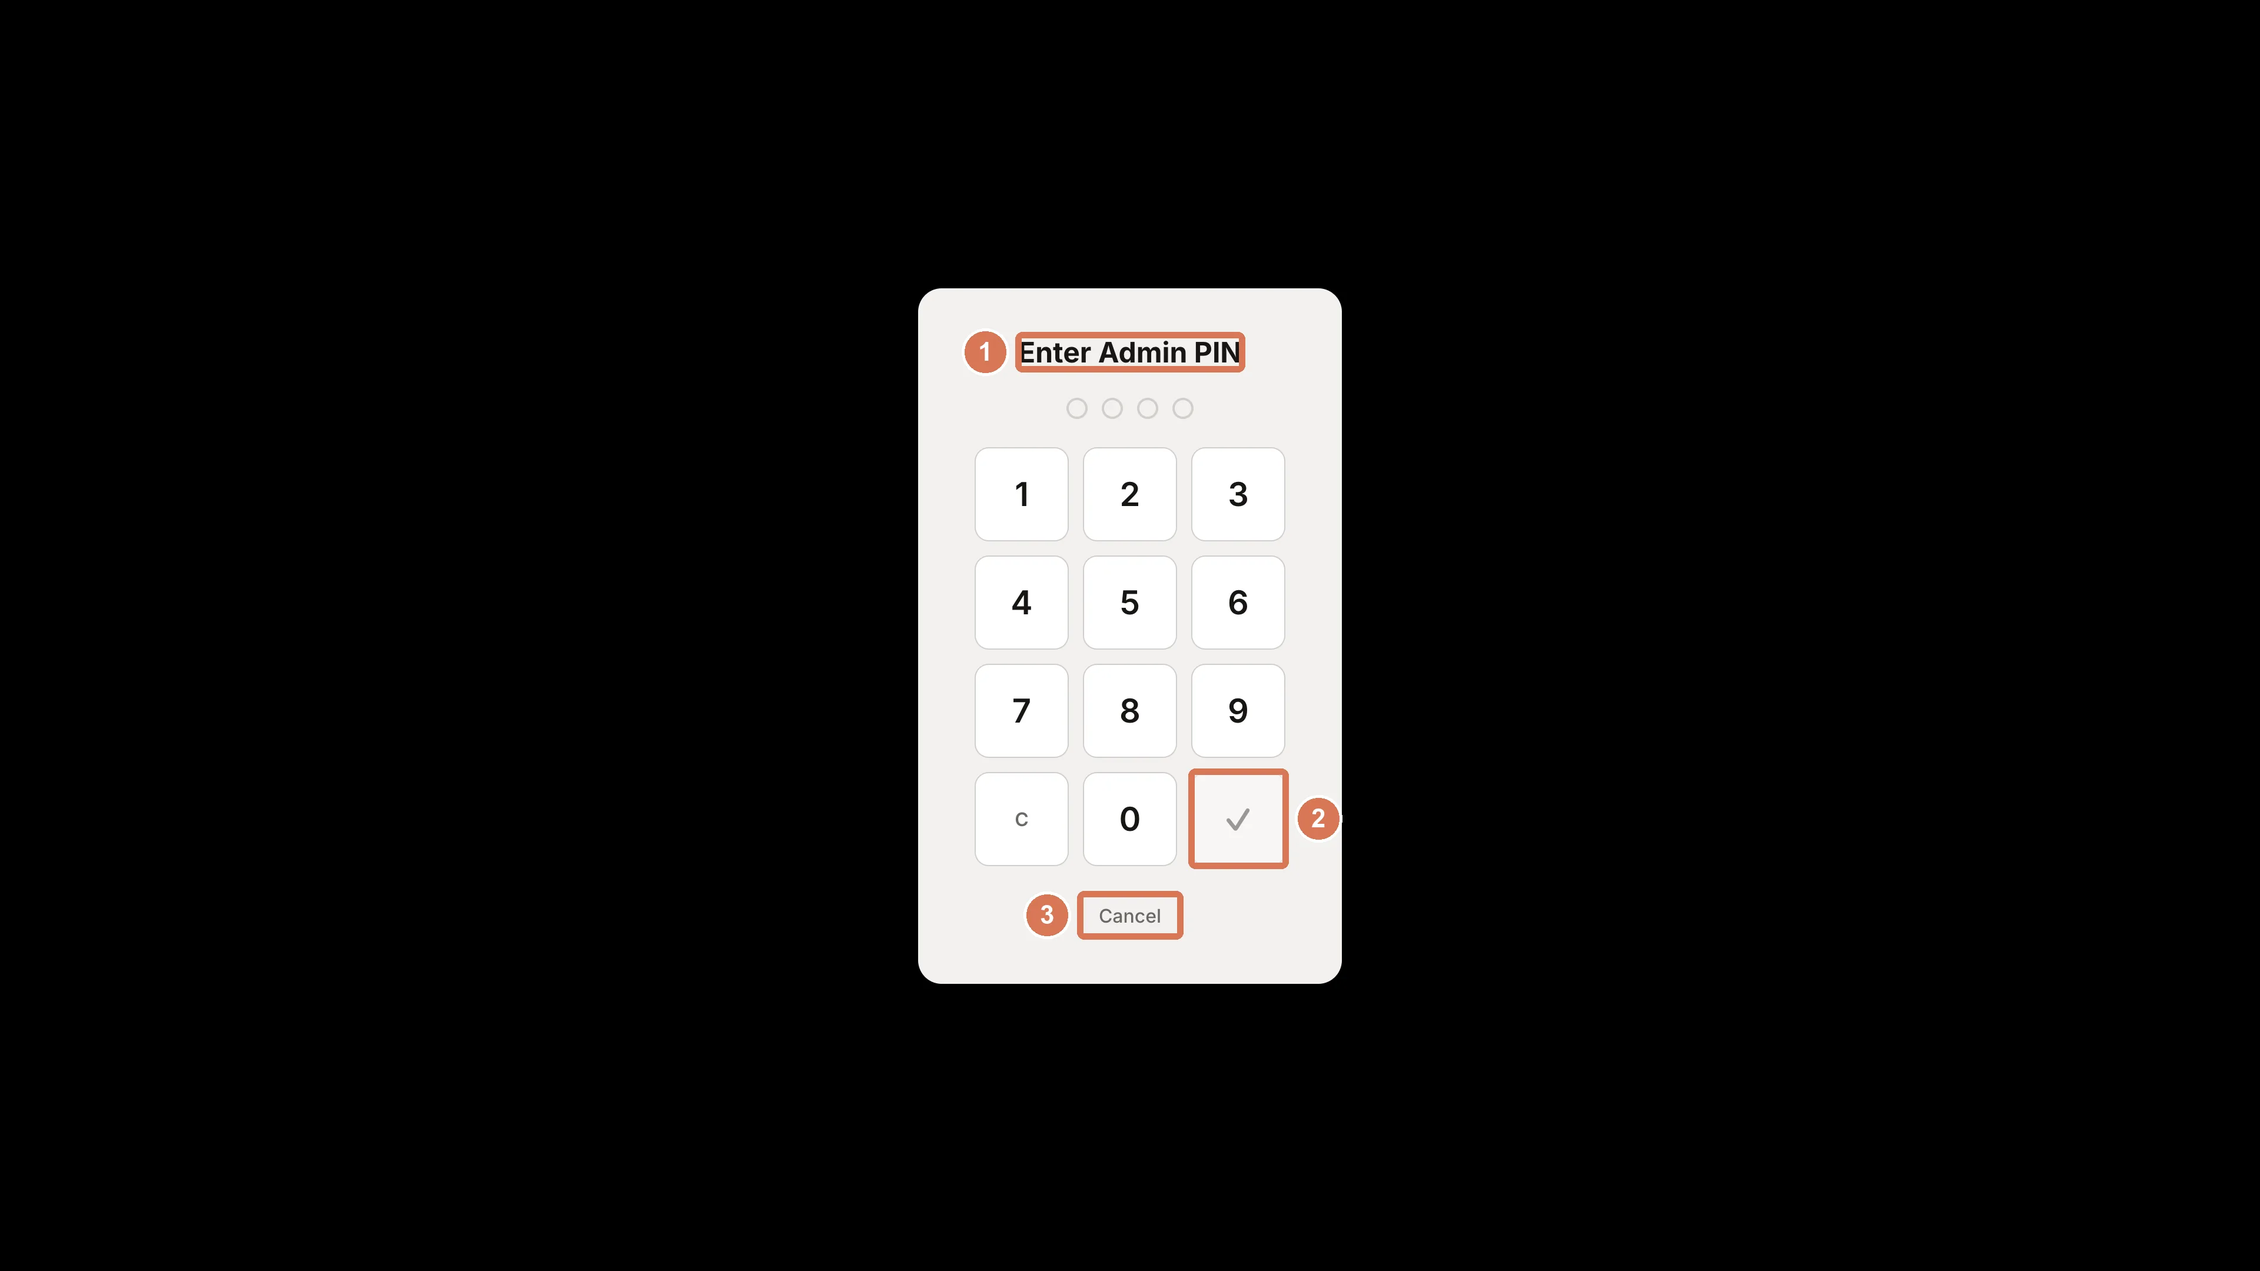
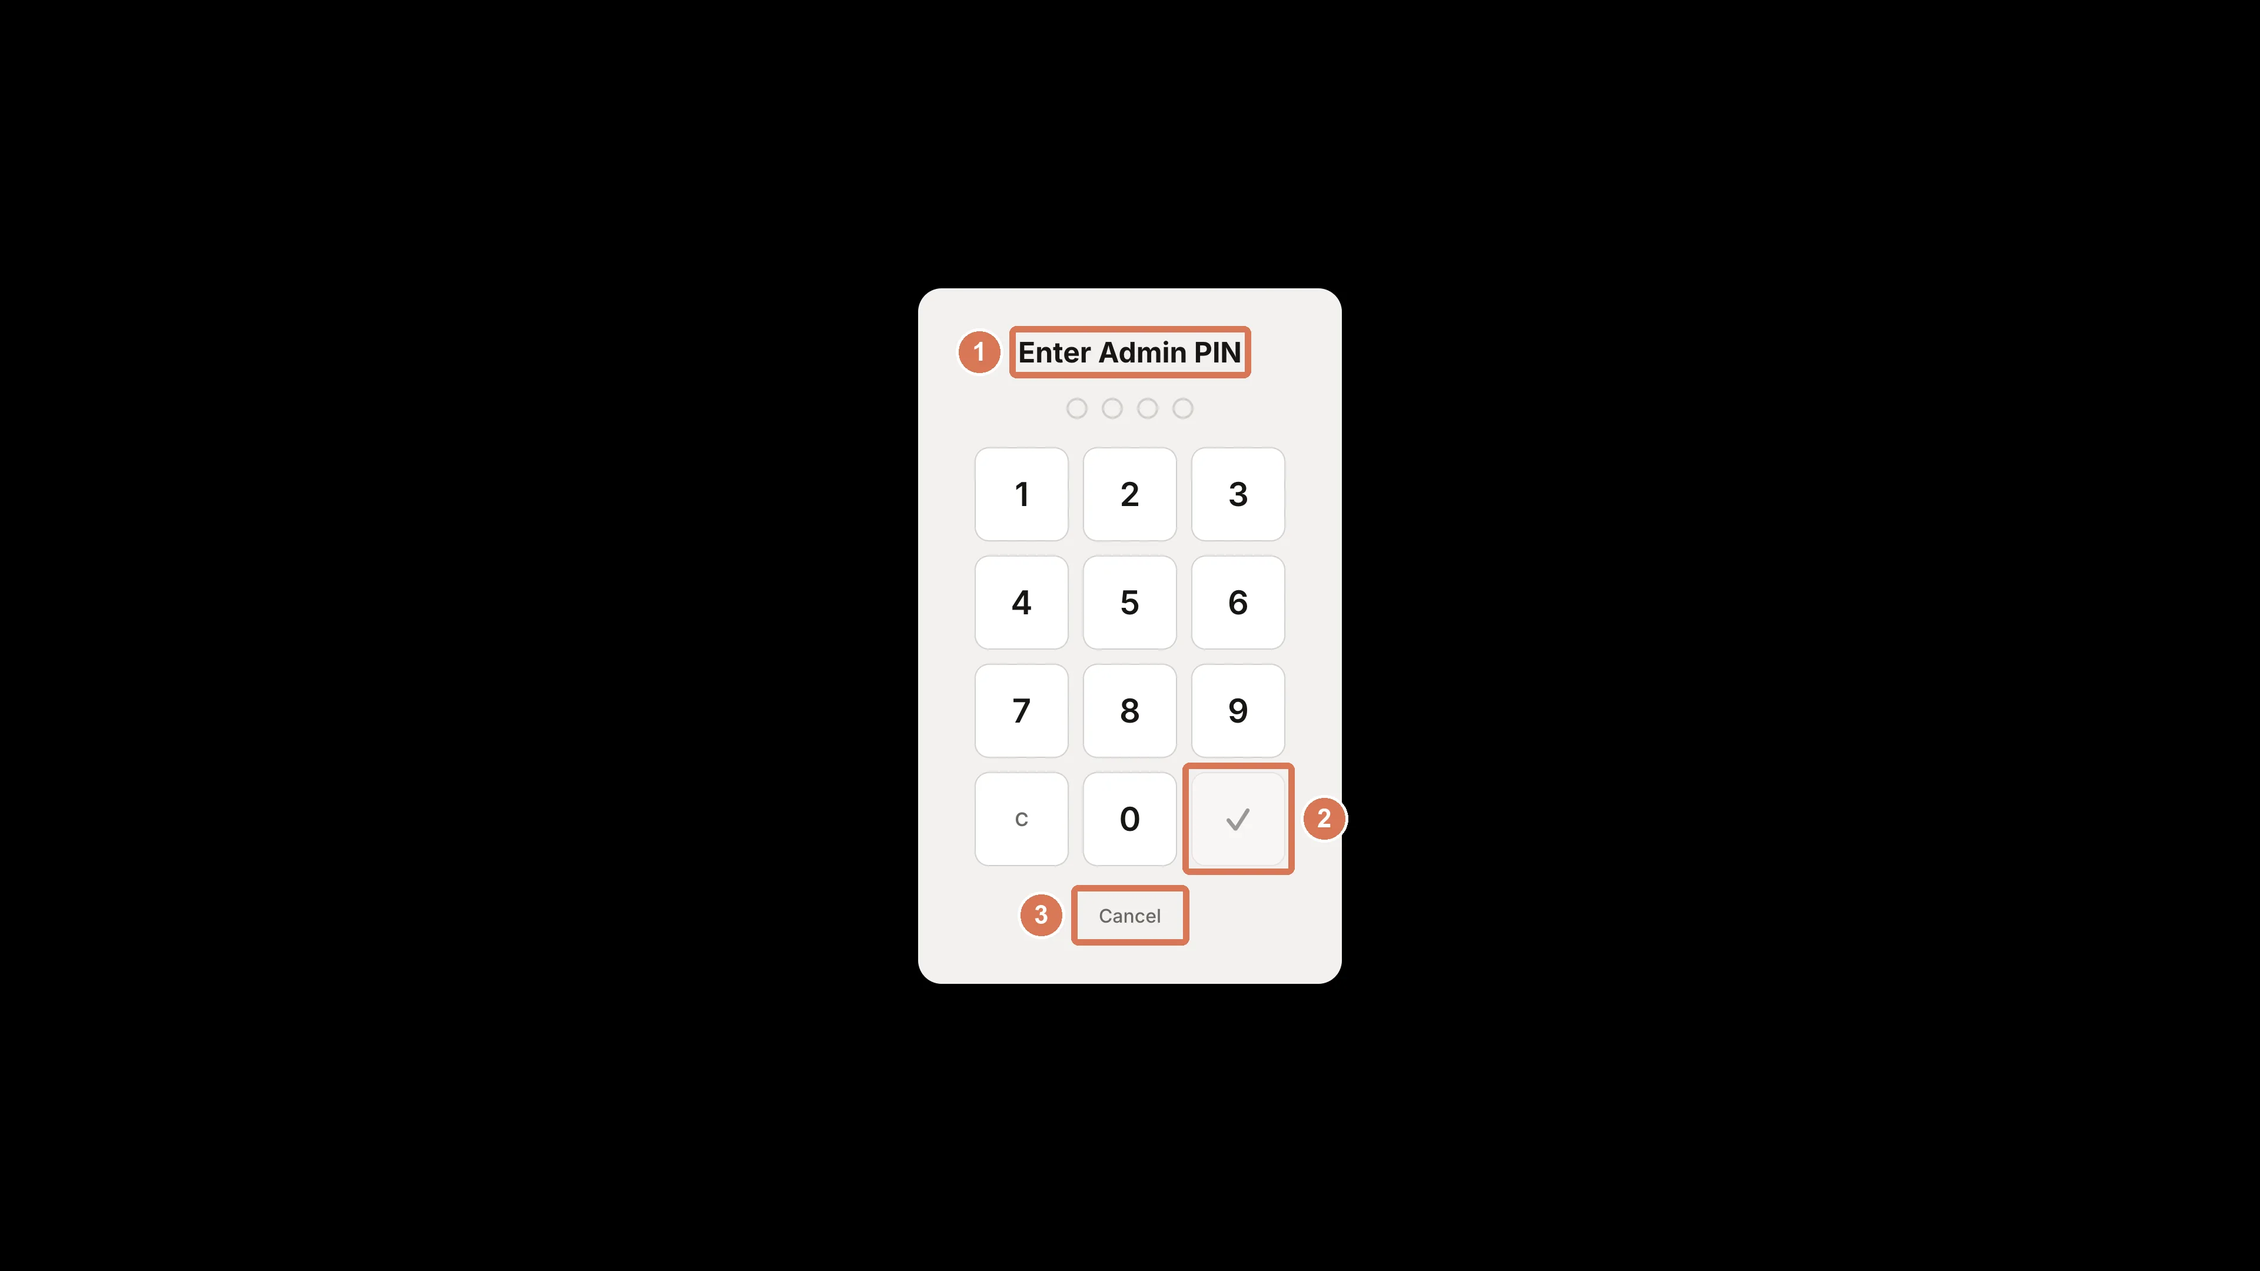
docs(tutorials): bright live view with flash; set up a booth in the new shape
Lighting & Flash keeps a summary and links the tutorial. Booth markers can
outline a label's whole field or row.

Changed region(s): [[0.4375, 0.5894, 0.5938, 0.7444], [0.4062, 0.2481, 0.5625, 0.3102]]

diff --git a/scripts/shots/tutorials/pr0_shots.py b/scripts/shots/tutorials/pr0_shots.py
@@ -29,14 +29,16 @@ def _mark(n, box, side=None):
     return {"n": n, "box": box, **({"side": side} if side else {})}
 
 
-def booth(page, name, screen, labels, focus=None):
-    """Render booth `screen`, mark `labels` (visible text, or (text, side), in step order), save as the page's step image."""
+def booth(page, name, screen, labels, focus=None, pad=10):
+    """Render booth `screen`, mark `labels` (visible text, or (text, side), in step order), save as the page's step image.
+    A label "^Text" marks the element around Text (label + its control), "^^Text" its whole row. Boxes grow by `pad` px."""
     png = str(TMP / f"{screen}.png")
     boxes = render(screen, (1920, 1080), png, focus=focus)
     labels = [l if isinstance(l, tuple) else (l, None) for l in labels]
     missing = [t for t, _ in labels if t not in boxes]
     assert not missing, f"{screen}: labels not on screen: {missing}"
-    draw_markers(png, out(page, name), [_mark(i + 1, boxes[t], side) for i, (t, side) in enumerate(labels)])
+    grow = lambda b: [b[0] - pad, b[1] - pad, b[2] + 2 * pad, b[3] + 2 * pad]
+    draw_markers(png, out(page, name), [_mark(i + 1, grow(boxes[t]), side) for i, (t, side) in enumerate(labels)])
 
 
 def dashboard(page, name, src, boxes, crop=None):
@@ -64,7 +66,13 @@ def operator_menu():
     booth(p, "admin-panel", "admin", [("Start on boot", "right"), ("Upload now", "below"), "Print history", ("Clean storage", "right")])
 
 
-JOBS = {"operator-menu": operator_menu}
+def flash():
+    p = "bright-live-view-with-flash"
+    booth(p, "camera-exposure", "camera", ["^ISO", "^SHUTTER", "^APERTURE", "^WHITE BALANCE", ("Save Camera Settings", "above")])
+    booth(p, "external-flash", "camera", [("^^EXTERNAL FLASH", "above"), ("Save Camera Settings", "above")], focus="EXTERNAL FLASH")
+
+
+JOBS = {"operator-menu": operator_menu, "flash": flash}
 
 if __name__ == "__main__":
     STEPS.mkdir(parents=True, exist_ok=True)

diff --git a/scripts/shots/booth/render.py b/scripts/shots/booth/render.py
@@ -21,7 +21,13 @@ BOXES_JS = """() => { const out = {};
     if (!own || own.length > 80) continue;
     const r = el.getBoundingClientRect(); const cs = getComputedStyle(el);
     if (r.width === 0 || r.height === 0 || cs.visibility === 'hidden' || cs.display === 'none') continue;
-    if (!(own in out)) out[own] = [r.x, r.y, r.width, r.height];
+    if (!(own in out)) {
+      out[own] = [r.x, r.y, r.width, r.height];
+      // "^text": the element around the label (label + its control); "^^text": one level further (the whole row).
+      const p = el.parentElement, g = p && p.parentElement;
+      if (p) { const b = p.getBoundingClientRect(); out['^' + own] = [b.x, b.y, b.width, b.height]; }
+      if (g) { const b = g.getBoundingClientRect(); out['^^' + own] = [b.x, b.y, b.width, b.height]; }
+    }
   } return out; }"""
 
 

diff --git a/docs/tutorials/bright-live-view-with-flash.md b/docs/tutorials/bright-live-view-with-flash.md
@@ -1,0 +1,147 @@
+---
+sidebar_position: 5
+title: Get a Bright Live View with Flash
+description: Light a booth with a flash or studio strobes and still give customers a bright live view. Camera settings for flash, a modelling light or the camera's exposure preview switch per brand, and EXTERNAL FLASH for Canon DSLRs.
+tags: [tutorials, camera, flash, lighting, live view]
+---
+
+import Tabs from '@theme/Tabs';
+import TabItem from '@theme/TabItem';
+
+# Get a Bright Live View with Flash
+
+In this tutorial you will set the camera up for flash, make the live view bright again so customers can see themselves, and make sure the flash fires on every photo. Allow about 20 minutes with the camera and flash in front of you.
+
+Flash photos need a low ISO and a fast shutter. With those settings the scene is dark until the flash fires, and many cameras show that darkness in live view. Customers then pose in front of a black or murky screen, even though the photo itself comes out fine.
+
+## When to Use It
+
+- **You light the booth with a speedlite or studio strobes** and the booth screen shows a dark preview.
+- **A studio-look booth or a wedding** where flash gives the sharp, clean photos you want, and customers still need a clear preview to pose.
+- **A Canon DSLR with a wireless trigger** where the flash fires when you shoot by hand but never from the booth.
+
+Not needed with continuous light (LED panels, ring lights, softboxes): the live view already shows the photo as it will look. A webcam cannot fire a flash; use continuous light with a webcam.
+
+## Before You Start
+
+- A camera body on USB: Canon, Sony, Nikon or Fujifilm. See [Supported Cameras](../reference/supported-cameras.md).
+- A flash: the camera's pop-up flash, a speedlite on the hot shoe, or studio strobes on a wireless trigger.
+- Pixture Photobooth 1.2.37 or newer for **EXTERNAL FLASH** (Canon DSLRs).
+- The menu PIN, if the booth has one. See [Lock the Booth and Use the Operator Menu](./operator-menu.md).
+
+## Prepare
+
+- **Camera in M mode** (manual), so the booth's settings stick.
+- **Focus once, then switch the lens to MF.** The booth fires the shutter without refocusing, so focus on where customers stand and lock it.
+- **Flash on manual power**, not TTL, so every photo comes out the same. Start around half power and adjust after a test.
+- **Know your flash sync speed.** It is in the camera's manual, usually 1/125 to 1/200. A faster shutter gives a dark band across the photo.
+
+## Step 1: Check that the flash fires from the camera
+
+1. Turn on the camera's live view (the **LV** button on a Canon DSLR).
+2. Press the shutter button by hand.
+
+If the flash fires, it will fire from the booth too: the booth presses the shutter the same way. If it fires only with live view off, and the camera is a Canon DSLR, Step 4 fixes it.
+
+<!-- SHOT-NEEDED: hardware: camera back with live view on and the LV button, flash on the hot shoe -->
+
+## Step 2: Set the camera for flash on the booth
+
+1. Open the operator menu and tap **Camera Settings**.
+2. Set **ISO** to 100 or 200.
+3. Set **SHUTTER** at or below the sync speed, for example **1/125**.
+4. Set **APERTURE** to f/5.6 to f/8, so a group stays sharp.
+5. Set **WHITE BALANCE** to **Flash**.
+6. Tap **Save Camera Settings**.
+
+![Camera Settings with ISO, SHUTTER, APERTURE, WHITE BALANCE and Save Camera Settings marked](/img/docs/steps/tutorials-bright-live-view-with-flash--camera-exposure.webp)
+
+The live view now looks dark. That is expected: the next step brings it back.
+
+## Step 3: Make the live view bright
+
+Pick one of the two fixes.
+
+**A modelling light.** Turn on the strobe's built-in modelling lamp, or add a small continuous light pointed at where customers stand. The preview brightens and the flash still does the real lighting. This works on every camera.
+
+**Or turn off the camera's exposure preview.** The camera then shows a bright live view whatever the settings are. Find the setting in the camera's own menu:
+
+<Tabs groupId="camera-brand">
+<TabItem value="canon" label="Canon">
+
+Set **Exposure simulation** to off.
+
+<!-- SHOT-NEEDED: hardware: Canon menu with Exposure simulation -->
+
+</TabItem>
+<TabItem value="sony" label="Sony">
+
+Set **Live View Display** to **Setting Effect OFF**.
+
+<!-- SHOT-NEEDED: hardware: Sony menu with Live View Display: Setting Effect OFF -->
+
+</TabItem>
+<TabItem value="nikon" label="Nikon Z">
+
+Set **Apply settings to live view** to off.
+
+<!-- SHOT-NEEDED: hardware: Nikon Z menu with Apply settings to live view -->
+
+</TabItem>
+<TabItem value="fujifilm" label="Fujifilm">
+
+Set **Preview Exp./WB in Manual Mode** to off.
+
+<!-- SHOT-NEEDED: hardware: Fujifilm menu with Preview Exp./WB in Manual Mode -->
+
+</TabItem>
+</Tabs>
+
+With exposure preview off, the live view no longer shows how bright the photo will be. Judge the exposure from a test photo, not from the screen.
+
+## Step 4: Canon DSLR only: turn on EXTERNAL FLASH
+
+Many Canon DSLRs do not fire a non-Canon flash or a wireless trigger while live view runs. Canon's EOS 600D manual says: "A non-Canon flash will not fire during Live View shooting." The booth can pause live view for each photo so the flash fires.
+
+1. In **Camera Settings**, scroll down to **CAPTURE** and turn on **EXTERNAL FLASH**.
+2. Tap **Save Camera Settings**.
+
+![Camera Settings scrolled to CAPTURE with the EXTERNAL FLASH switch and Save Camera Settings marked](/img/docs/steps/tutorials-bright-live-view-with-flash--external-flash.webp)
+
+Each photo now takes about 0.6 seconds longer and the preview blinks once. Leave it off when the flash already fires: Canon mirrorless cameras (the EOS R series) do not need it. With a non-Canon flash, Canon asks for a shutter speed of 1/200 or slower.
+
+## Step 5: Take a test session
+
+1. Tap **Back to Menu**, then **Start Booth**.
+2. Run a full photo session, with someone standing where customers will stand.
+3. Check the photos on the review screen and the print. Too dark: raise the flash power or open the aperture a stop. Too bright: lower the flash power.
+
+## Check It Worked
+
+- The live view is bright enough for customers to see themselves and pose.
+- The flash fires on every photo of the session, not only the first.
+- Photos and prints are evenly exposed, with no dark band across them.
+
+## Tips
+
+- **Some photos in a burst come out dark?** The flash had not recharged. Lengthen the countdown between shots in the Pix Design UI Editor (at an event: the event's **Edit appearance** > **Countdown**), or lower the flash power.
+- **Speedlites on AA batteries slow down over a long event.** Studio strobes, or a speedlite with an external battery pack, recharge faster.
+- **One large soft light** slightly above eye level, in front of the customers, is enough for most booths. Two lights at about 45 degrees on each side give even light for groups.
+- Keep bright windows and lamps behind the camera, not behind the customers.
+
+## Troubleshooting
+
+| Problem | Why | Fix |
+|---|---|---|
+| The live view is black or very dark | The camera previews the flash exposure (low ISO, fast shutter) | Add a modelling light, or turn off exposure preview (Step 3) |
+| The flash fires by hand but not from the booth | Canon DSLRs do not fire a non-Canon flash or trigger during live view | Turn on **EXTERNAL FLASH** (Step 4) |
+| A dark band across the photo | The shutter is faster than the flash sync speed | Set **SHUTTER** to 1/125 or 1/160 |
+| Every other photo is dark | The flash is still recharging | Longer countdown between shots, or lower flash power |
+| People at the back of a group are soft | The aperture is too wide for the group's depth | Set **APERTURE** to f/8 |
+| The photo is out of focus after a while | The camera refocused, or someone touched the lens | Focus on where customers stand and switch the lens to **MF** |
+
+## Related
+
+- [Lighting & Flash](../desktop-app/camera-setup/lighting-and-flash.md)
+- [Camera Settings](../desktop-app/camera-setup/camera-settings.md)
+- [Lock the Booth and Use the Operator Menu](./operator-menu.md)

diff --git a/docs/tutorials/set-up-a-booth.md b/docs/tutorials/set-up-a-booth.md
@@ -9,11 +9,28 @@ tags: [tutorials, booths, setup, pairing]
 
 In this tutorial you will create a booth in the Pixture dashboard, assign print templates, choose the booth's screen design and filters, set a price or make photo sessions free, check the outputs, pair the booth PC and run a test session. Allow about 30 minutes, plus the time to install the Pixture Photobooth app.
 
+## When to Use It
+
+- **Your first booth.** Start here after creating your Pixture account.
+- **A new place or a new client.** A mall kiosk, a second studio room or a partner's venue gets its own booth, with its own prices, templates and screen design.
+- **A booth that moved.** Rebuild its settings for the new venue instead of copying the old ones by hand.
+
+Not the right page when you only add a second computer to Pix Pro: see [Add a Second Computer or Move Pix Pro](./add-or-move-a-computer.md). For a one-off event, see [Run an Event](./run-an-event.md).
+
 ## Before You Start
 
 - A Pixture account, with the dashboard open at pixture.io.
 - The [Pixture Photobooth app](../getting-started/download-desktop-app.md) installed on the booth PC, with the camera and printer connected.
 - On Pix Starter, one computer can be paired and every photo, print and GIF carries the Pixture watermark. Pix Pro removes the watermark and unlocks payments at the booth. See [Plans & Pricing](../pricing/plans.md).
+
+## Prepare
+
+Get the booth computer ready before you pair it, so the booth runs on its own once customers arrive:
+
+- [Make the Booth Start by Itself After a Power Cut](./start-after-a-power-cut.md): the computer powers on, signs in and opens the booth with nobody there.
+- [Lock the Screen to the Booth](./lock-the-screen.md): no taskbar, notifications or swipes on a touchscreen.
+- [Get a Bright Live View with Flash](./bright-live-view-with-flash.md): only if you light with a flash.
+- [Lock the Booth and Use the Operator Menu](./operator-menu.md): a PIN, and the pages you will use during a day of work.
 
 ## Step 1: Create the booth
 
@@ -72,7 +89,7 @@ Taking payments at the booth needs a payment gateway under **Settings > Payment 
 
 1. Open the **Settings** tab.
 2. Under **Output Settings**, switch on what the booth should produce: **Singles Upload**, **GIF Upload**, **Live Photo Upload** and **Print Output**. Click **Save Output Settings**.
-3. Under **Menu PIN**, enter a PIN of 4 to 8 digits and click **Set PIN**, so customers cannot open the operator menu on the booth.
+3. Under **Menu PIN**, enter a PIN of 4 to 8 digits and click **Set PIN**, so customers cannot open the operator menu on the booth. One PIN for every booth goes in **Settings > Security** instead: see [Lock the Booth and Use the Operator Menu](./operator-menu.md).
 
 ![Booth Settings tab with Output Settings switches, Payment Gateway, Booth Info, Currency and Menu PIN](/img/docs/steps/tutorials-set-up-a-booth--booth-settings-tab.webp)
 
@@ -109,9 +126,16 @@ If **Payment on this booth** is on, either switch it off for the test or create 
 
 ![Booth page of a paired booth showing Online, the Pix Pro badge, the property grid and the tab bar](/img/docs/booth-overview.webp)
 
+## Tips
+
+- **Set up the booth in the dashboard before you go to the venue.** Templates, screen design and prices are all online; at the venue you only pair the computer and run a test.
+- **Name booths after the place**, for example "Sunny Side Mall Kiosk 1". Reports, Health and partner statements use the name.
+- **Keep one test voucher** (a staff pass) for checking a booth with payment on, so you never pay for your own test.
+- **Run the test session with the real paper loaded.** It is the only way to see that the print size and alignment are right.
+
 ## Troubleshooting
 
-| Symptom | Cause | Fix |
+| Problem | Why | Fix |
 |---|---|---|
 | The pairing code is refused | Codes expire after 10 minutes | Click **New code** and enter the new code |
 | "Device limit reached" instead of a code | Every place on your subscription is active, or this is a second computer on Pix Starter | Deactivate a computer on the Computers page, add a computer, or use an Event Pass. Pix Starter runs one computer |

diff --git a/docs/desktop-app/camera-setup/lighting-and-flash.md b/docs/desktop-app/camera-setup/lighting-and-flash.md
@@ -57,10 +57,7 @@ Put the camera in **M** mode and set exposure on the booth's [Camera Settings](.
 
 ## Live view looks dark with flash
 
-At flash settings (low ISO, fast shutter) the scene is dark until the flash fires, and many cameras show that darkness in live view, so customers see a dark preview. Two fixes:
-
-- Add a **modelling light** or a small continuous light so the preview is bright. Many studio strobes have a built-in modelling lamp.
-- Or turn off exposure preview in the camera's menu, so live view stays bright regardless of the settings: **Exposure simulation** off on a Canon, **Live View Display: Setting Effect OFF** on a Sony, **Apply settings to live view** off on a Nikon Z, **Preview Exp./WB in Manual Mode** off on a Fujifilm.
+At flash settings (low ISO, fast shutter) the scene is dark until the flash fires, and many cameras show that darkness in live view. Add a modelling light, or turn off the camera's exposure preview. Step by step, with the setting for each camera brand: [Get a Bright Live View with Flash](../../tutorials/bright-live-view-with-flash.md).
 
 ## Placing the light
 
@@ -70,6 +67,7 @@ At flash settings (low ISO, fast shutter) the scene is dark until the flash fire
 
 ## Related
 
+- [Get a Bright Live View with Flash](../../tutorials/bright-live-view-with-flash.md)
 - [Camera Settings](./camera-settings.md)
 - [Webcam Fallback](./webcam-fallback.md)
 - [Supported Cameras](../../reference/supported-cameras.md)
